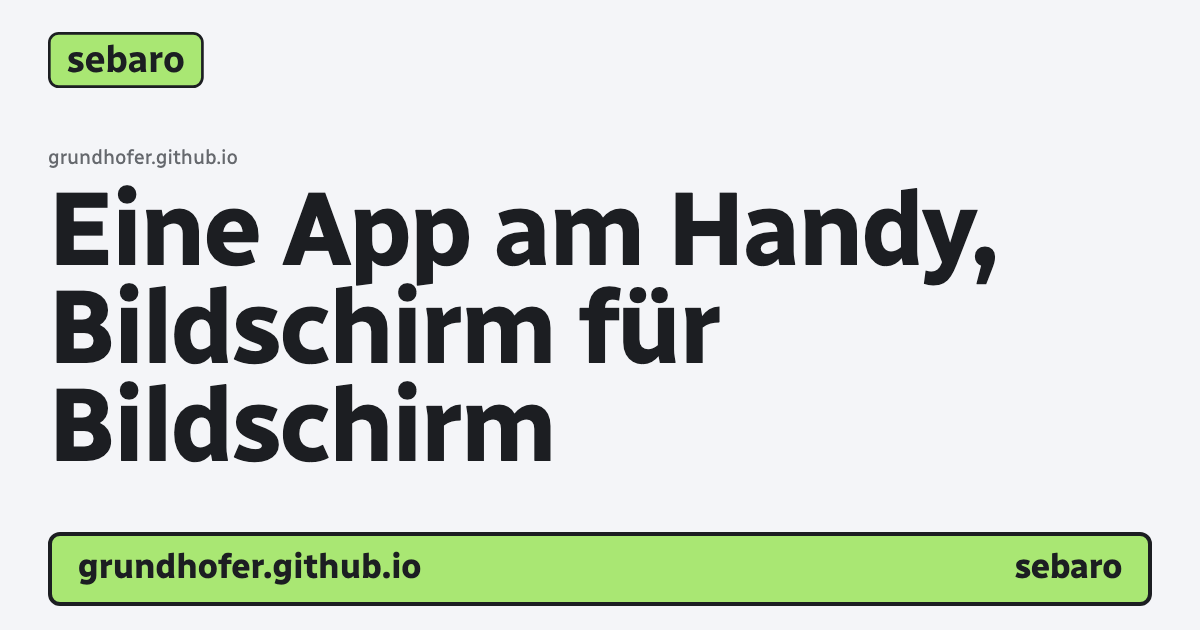
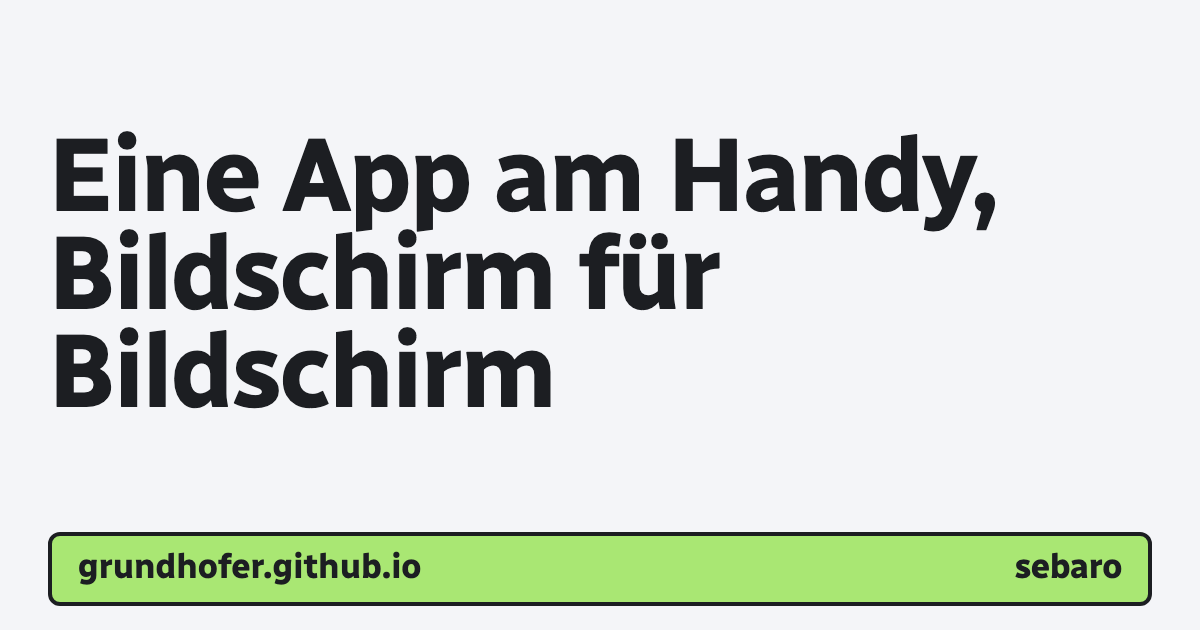
Share images rendered again after the sync (template and render.mjs 1.2.0 changed)

Changed region(s): [[0.0308, 0.2111, 0.8325, 0.754], [0.0308, 0.0302, 0.185, 0.1508]]

diff --git a/docs/gedanken.html b/docs/gedanken.html
@@ -6,7 +6,7 @@
 <title>Gedanken dahinter · sebaro Guide</title>
 <meta name="description" content="Warum sebaro so aussieht: Haltung, die Kernidee „Farbe ist Funktion“, Schrift, Farben, Belege, Zeichen, Signatur, Geschichte in sechs Runden, die Entscheidungen vom 20.10.2026, Abwägungen und wie entschieden wird.">
 <!-- guide:og page="gedanken" -->
-<!-- generated by brand/og/render.mjs 1.1.0; do not edit -->
+<!-- generated by brand/og/render.mjs 1.2.0; do not edit -->
 <link rel="canonical" href="https://grundhofer.github.io/sebaro-guide/gedanken.html">
 <meta property="og:type" content="article">
 <meta property="og:site_name" content="sebaro Guide">

diff --git a/docs/ios.html b/docs/ios.html
@@ -6,7 +6,7 @@
 <title>iOS · sebaro Guide</title>
 <meta name="description" content="Dieselbe App auf dem iPhone: das Swift-Paket SebaroDesign, die Wahl des Inhabers für iOS (eigene untere Leiste, Leiste des Systems, Kontextmenü, eigener Dialog, Sheet, Dynamic Type) und was noch nicht auf einem Gerät lief.">
 <!-- guide:og page="ios" -->
-<!-- generated by brand/og/render.mjs 1.1.0; do not edit -->
+<!-- generated by brand/og/render.mjs 1.2.0; do not edit -->
 <link rel="canonical" href="https://grundhofer.github.io/sebaro-guide/ios.html">
 <meta property="og:type" content="article">
 <meta property="og:site_name" content="sebaro Guide">

diff --git a/docs/plattformen.html b/docs/plattformen.html
@@ -6,7 +6,7 @@
 <title>Plattformen · sebaro Guide</title>
 <meta name="description" content="Die vier Plattformseiten des sebaro Guides, Web, App, iOS und Desktop, auf einen Blick, und was je Plattform anders ist: Hell oder Dunkel, Navigation und Systemdateien.">
 <!-- guide:og page="plattformen" -->
-<!-- generated by brand/og/render.mjs 1.1.0; do not edit -->
+<!-- generated by brand/og/render.mjs 1.2.0; do not edit -->
 <link rel="canonical" href="https://grundhofer.github.io/sebaro-guide/plattformen.html">
 <meta property="og:type" content="article">
 <meta property="og:site_name" content="sebaro Guide">

diff --git a/docs/daten.html b/docs/daten.html
@@ -6,7 +6,7 @@
 <title>Daten · sebaro Guide</title>
 <meta name="description" content="Jede Datenart einmal so, wie sebaro sie zeigt: Text, Zahlen, Zeit, Zustand, Kategorien, Personen, Technisches, Sammlungen, Diagramme, Medien, Orte, Leeres und Belege, jeweils mit Regel.">
 <!-- guide:og page="daten" -->
-<!-- generated by brand/og/render.mjs 1.1.0; do not edit -->
+<!-- generated by brand/og/render.mjs 1.2.0; do not edit -->
 <link rel="canonical" href="https://grundhofer.github.io/sebaro-guide/daten.html">
 <meta property="og:type" content="article">
 <meta property="og:site_name" content="sebaro Guide">

diff --git a/docs/index.html b/docs/index.html
@@ -6,7 +6,7 @@
 <title>sebaro Guide · Gestaltung für alles, was sebaro baut</title>
 <meta name="description" content="Der Gestaltungsleitfaden für alle Apps, Websites und Desktop-Apps von sebaro: Farben, Formen, Verhalten, Funktion und die Gedanken dahinter, mit Beispielen.">
 <!-- guide:og page="index" -->
-<!-- generated by brand/og/render.mjs 1.1.0; do not edit -->
+<!-- generated by brand/og/render.mjs 1.2.0; do not edit -->
 <link rel="canonical" href="https://grundhofer.github.io/sebaro-guide/">
 <meta property="og:type" content="website">
 <meta property="og:site_name" content="sebaro Guide">

diff --git a/docs/web.html b/docs/web.html
@@ -6,7 +6,7 @@
 <title>Web · sebaro Guide</title>
 <meta name="description" content="Eine Beispiel-Website in sebaro mit allen typischen Seiten und Fällen, vom Einstieg über Formulare und Rechtstexte bis zu 404, Wartung und Start, jeder Fall mit seinen Regeln.">
 <!-- guide:og page="web" -->
-<!-- generated by brand/og/render.mjs 1.1.0; do not edit -->
+<!-- generated by brand/og/render.mjs 1.2.0; do not edit -->
 <link rel="canonical" href="https://grundhofer.github.io/sebaro-guide/web.html">
 <meta property="og:type" content="article">
 <meta property="og:site_name" content="sebaro Guide">

diff --git a/docs/desktop.html b/docs/desktop.html
@@ -6,7 +6,7 @@
 <title>Desktop · sebaro Guide</title>
 <meta name="description" content="Eine Beispiel-Desktop-App in sebaro (Tauri/macOS): Fenster, Seitenleiste, Befehlspalette, Menüs, Tabellen, Dialoge, Tastatur, mit Regel-IDs und Hinweisen zu Tauri.">
 <!-- guide:og page="desktop" -->
-<!-- generated by brand/og/render.mjs 1.1.0; do not edit -->
+<!-- generated by brand/og/render.mjs 1.2.0; do not edit -->
 <link rel="canonical" href="https://grundhofer.github.io/sebaro-guide/desktop.html">
 <meta property="og:type" content="article">
 <meta property="og:site_name" content="sebaro Guide">

diff --git a/docs/ausblick.html b/docs/ausblick.html
@@ -6,7 +6,7 @@
 <title>Ausblick · sebaro Guide</title>
 <meta name="description" content="Was nach den Entscheidungen vom 23.10.2026 noch auf eine Wahl des Inhabers wartet, was offen ist, was später kommt, was wir nicht machen und was erledigt ist.">
 <!-- guide:og page="ausblick" -->
-<!-- generated by brand/og/render.mjs 1.1.0; do not edit -->
+<!-- generated by brand/og/render.mjs 1.2.0; do not edit -->
 <link rel="canonical" href="https://grundhofer.github.io/sebaro-guide/ausblick.html">
 <meta property="og:type" content="article">
 <meta property="og:site_name" content="sebaro Guide">

diff --git a/docs/grundlagen.html b/docs/grundlagen.html
@@ -6,7 +6,7 @@
 <title>Grundlagen · sebaro Guide</title>
 <meta name="description" content="Farbe, Schrift, Raum, Form, Ebenen, Bewegung und Zustände von sebaro: jedes Token mit seinem Wert, seiner Aufgabe und der Regel dazu.">
 <!-- guide:og page="grundlagen" -->
-<!-- generated by brand/og/render.mjs 1.1.0; do not edit -->
+<!-- generated by brand/og/render.mjs 1.2.0; do not edit -->
 <link rel="canonical" href="https://grundhofer.github.io/sebaro-guide/grundlagen.html">
 <meta property="og:type" content="article">
 <meta property="og:site_name" content="sebaro Guide">

diff --git a/docs/bauteile.html b/docs/bauteile.html
@@ -6,7 +6,7 @@
 <title>Bauteile · sebaro Guide</title>
 <meta name="description" content="Alle Bauteile von sebaro mit ihren Zuständen, Regeln und dem genauen Markup zum Kopieren.">
 <!-- guide:og page="bauteile" -->
-<!-- generated by brand/og/render.mjs 1.1.0; do not edit -->
+<!-- generated by brand/og/render.mjs 1.2.0; do not edit -->
 <link rel="canonical" href="https://grundhofer.github.io/sebaro-guide/bauteile.html">
 <meta property="og:type" content="article">
 <meta property="og:site_name" content="sebaro Guide">

diff --git a/src/og/head/ios.head.html b/src/og/head/ios.head.html
@@ -1,4 +1,4 @@
-<!-- generated by brand/og/render.mjs 1.1.0; do not edit -->
+<!-- generated by brand/og/render.mjs 1.2.0; do not edit -->
 <link rel="canonical" href="https://grundhofer.github.io/sebaro-guide/ios.html">
 <meta name="description" content="Dieselbe App auf dem iPhone: das Swift-Paket SebaroDesign, die Wahl des Inhabers für iOS (eigene untere Leiste, Leiste des Systems, Kontextmenü, eigener Dialog, Sheet, Dynamic Type) und was noch nicht auf einem Gerät lief.">
 <meta property="og:type" content="article">

diff --git a/src/og/head/gedanken.head.html b/src/og/head/gedanken.head.html
@@ -1,4 +1,4 @@
-<!-- generated by brand/og/render.mjs 1.1.0; do not edit -->
+<!-- generated by brand/og/render.mjs 1.2.0; do not edit -->
 <link rel="canonical" href="https://grundhofer.github.io/sebaro-guide/gedanken.html">
 <meta name="description" content="Warum sebaro so aussieht: Haltung, die Kernidee „Farbe ist Funktion“, Schrift, Farben, Belege, Zeichen, Signatur, Geschichte in sechs Runden, die Entscheidungen vom 20.10.2026, Abwägungen und wie entschieden wird.">
 <meta property="og:type" content="article">
